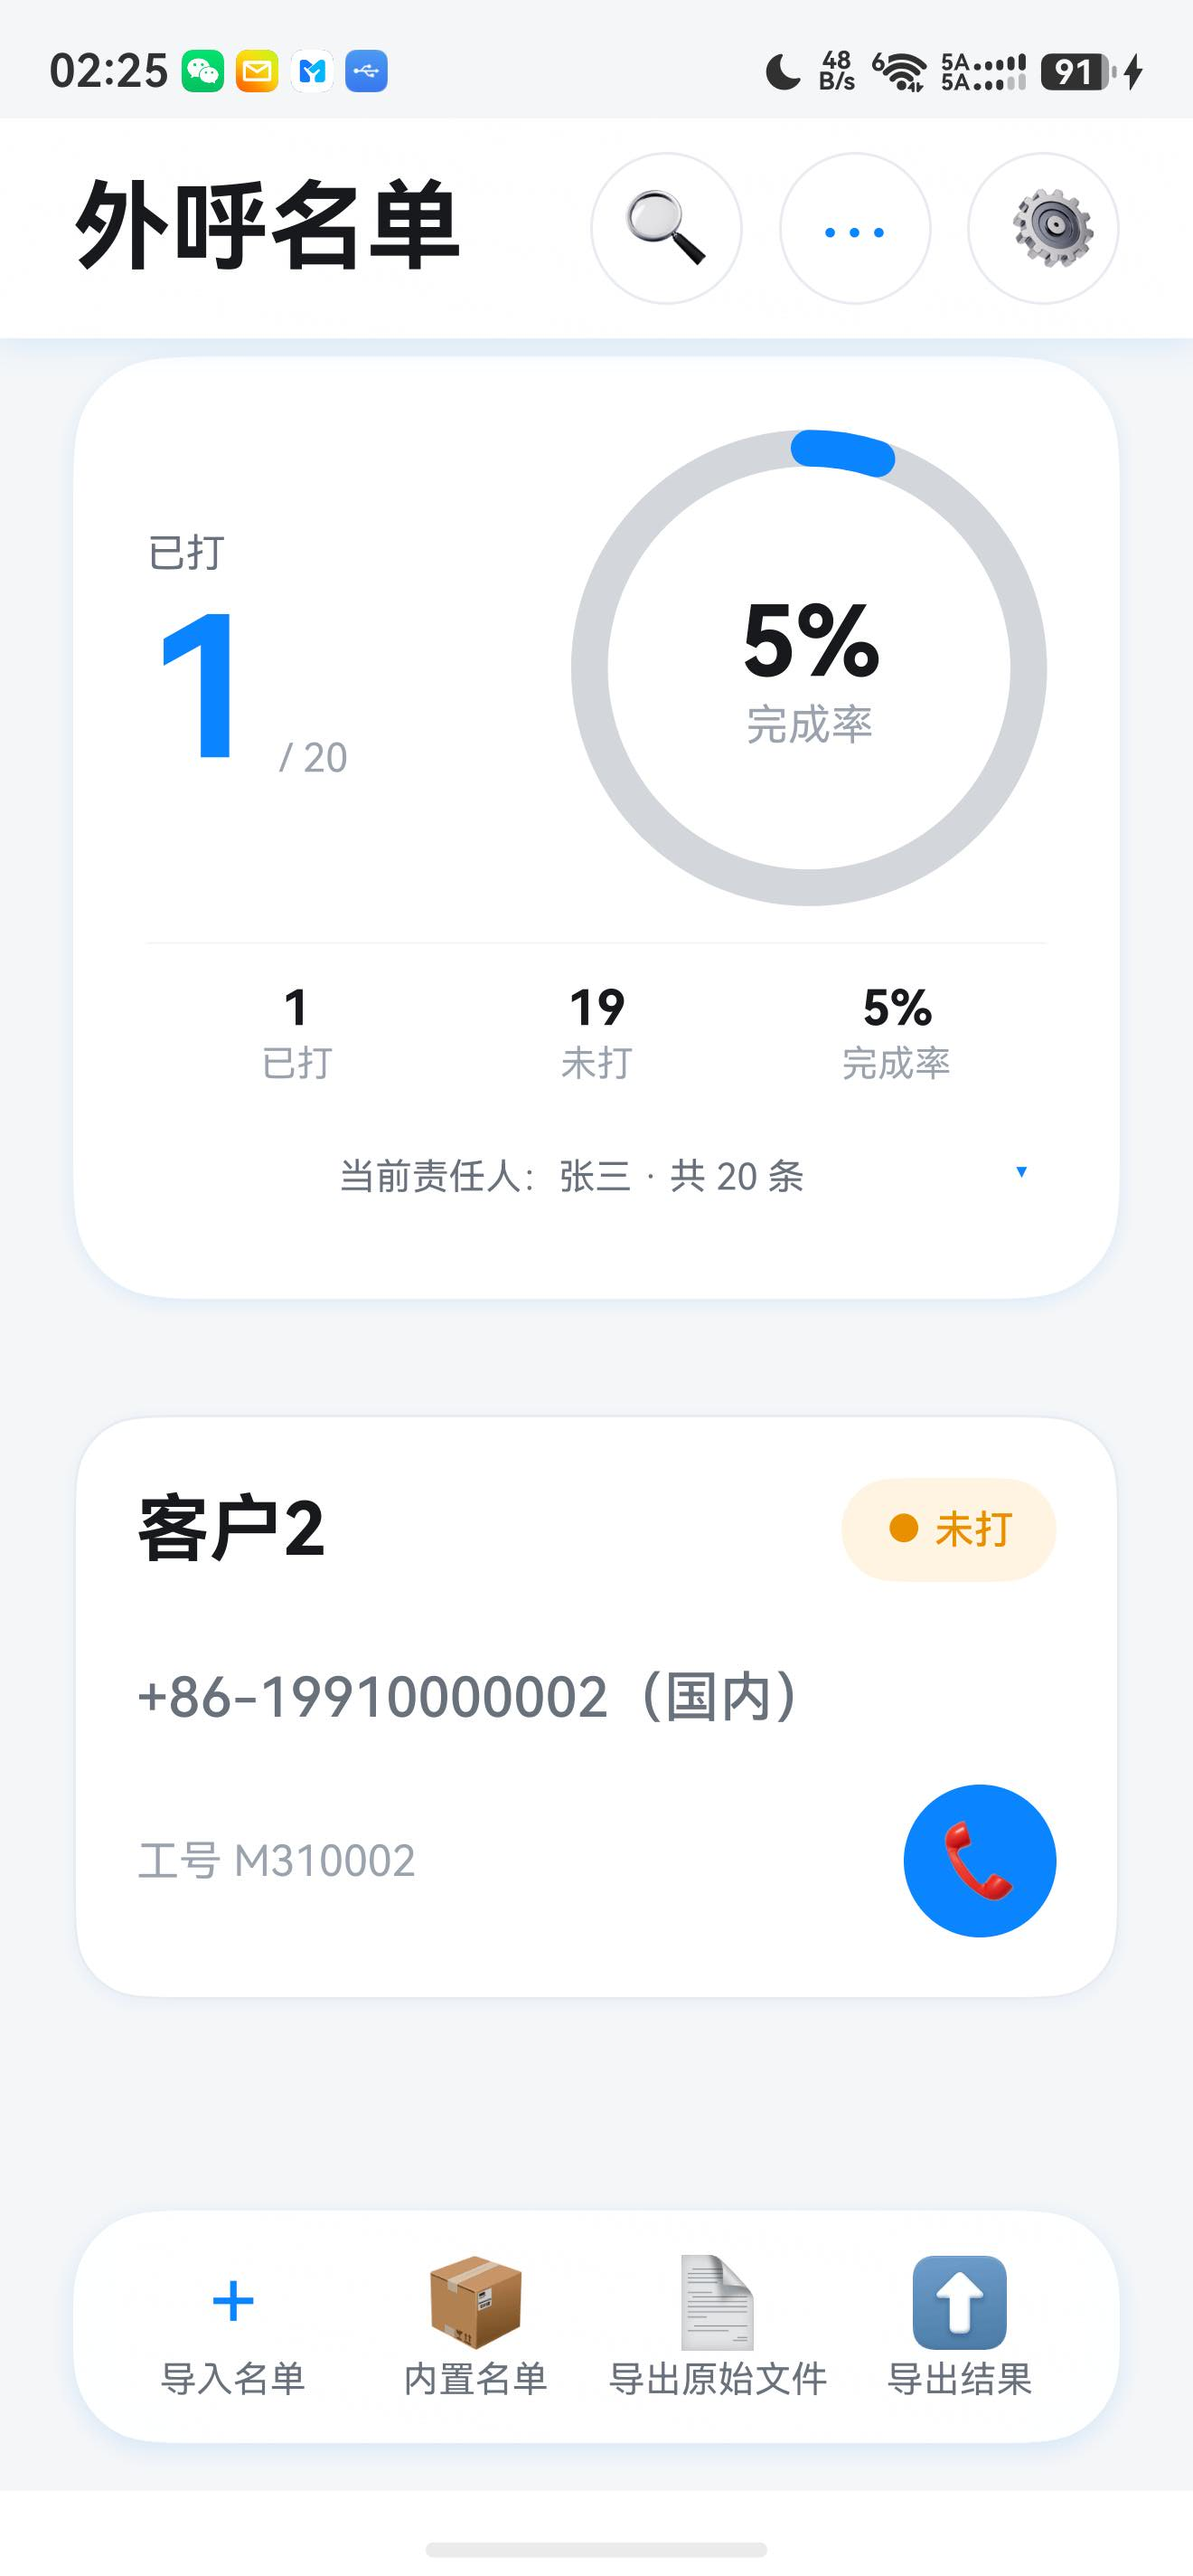
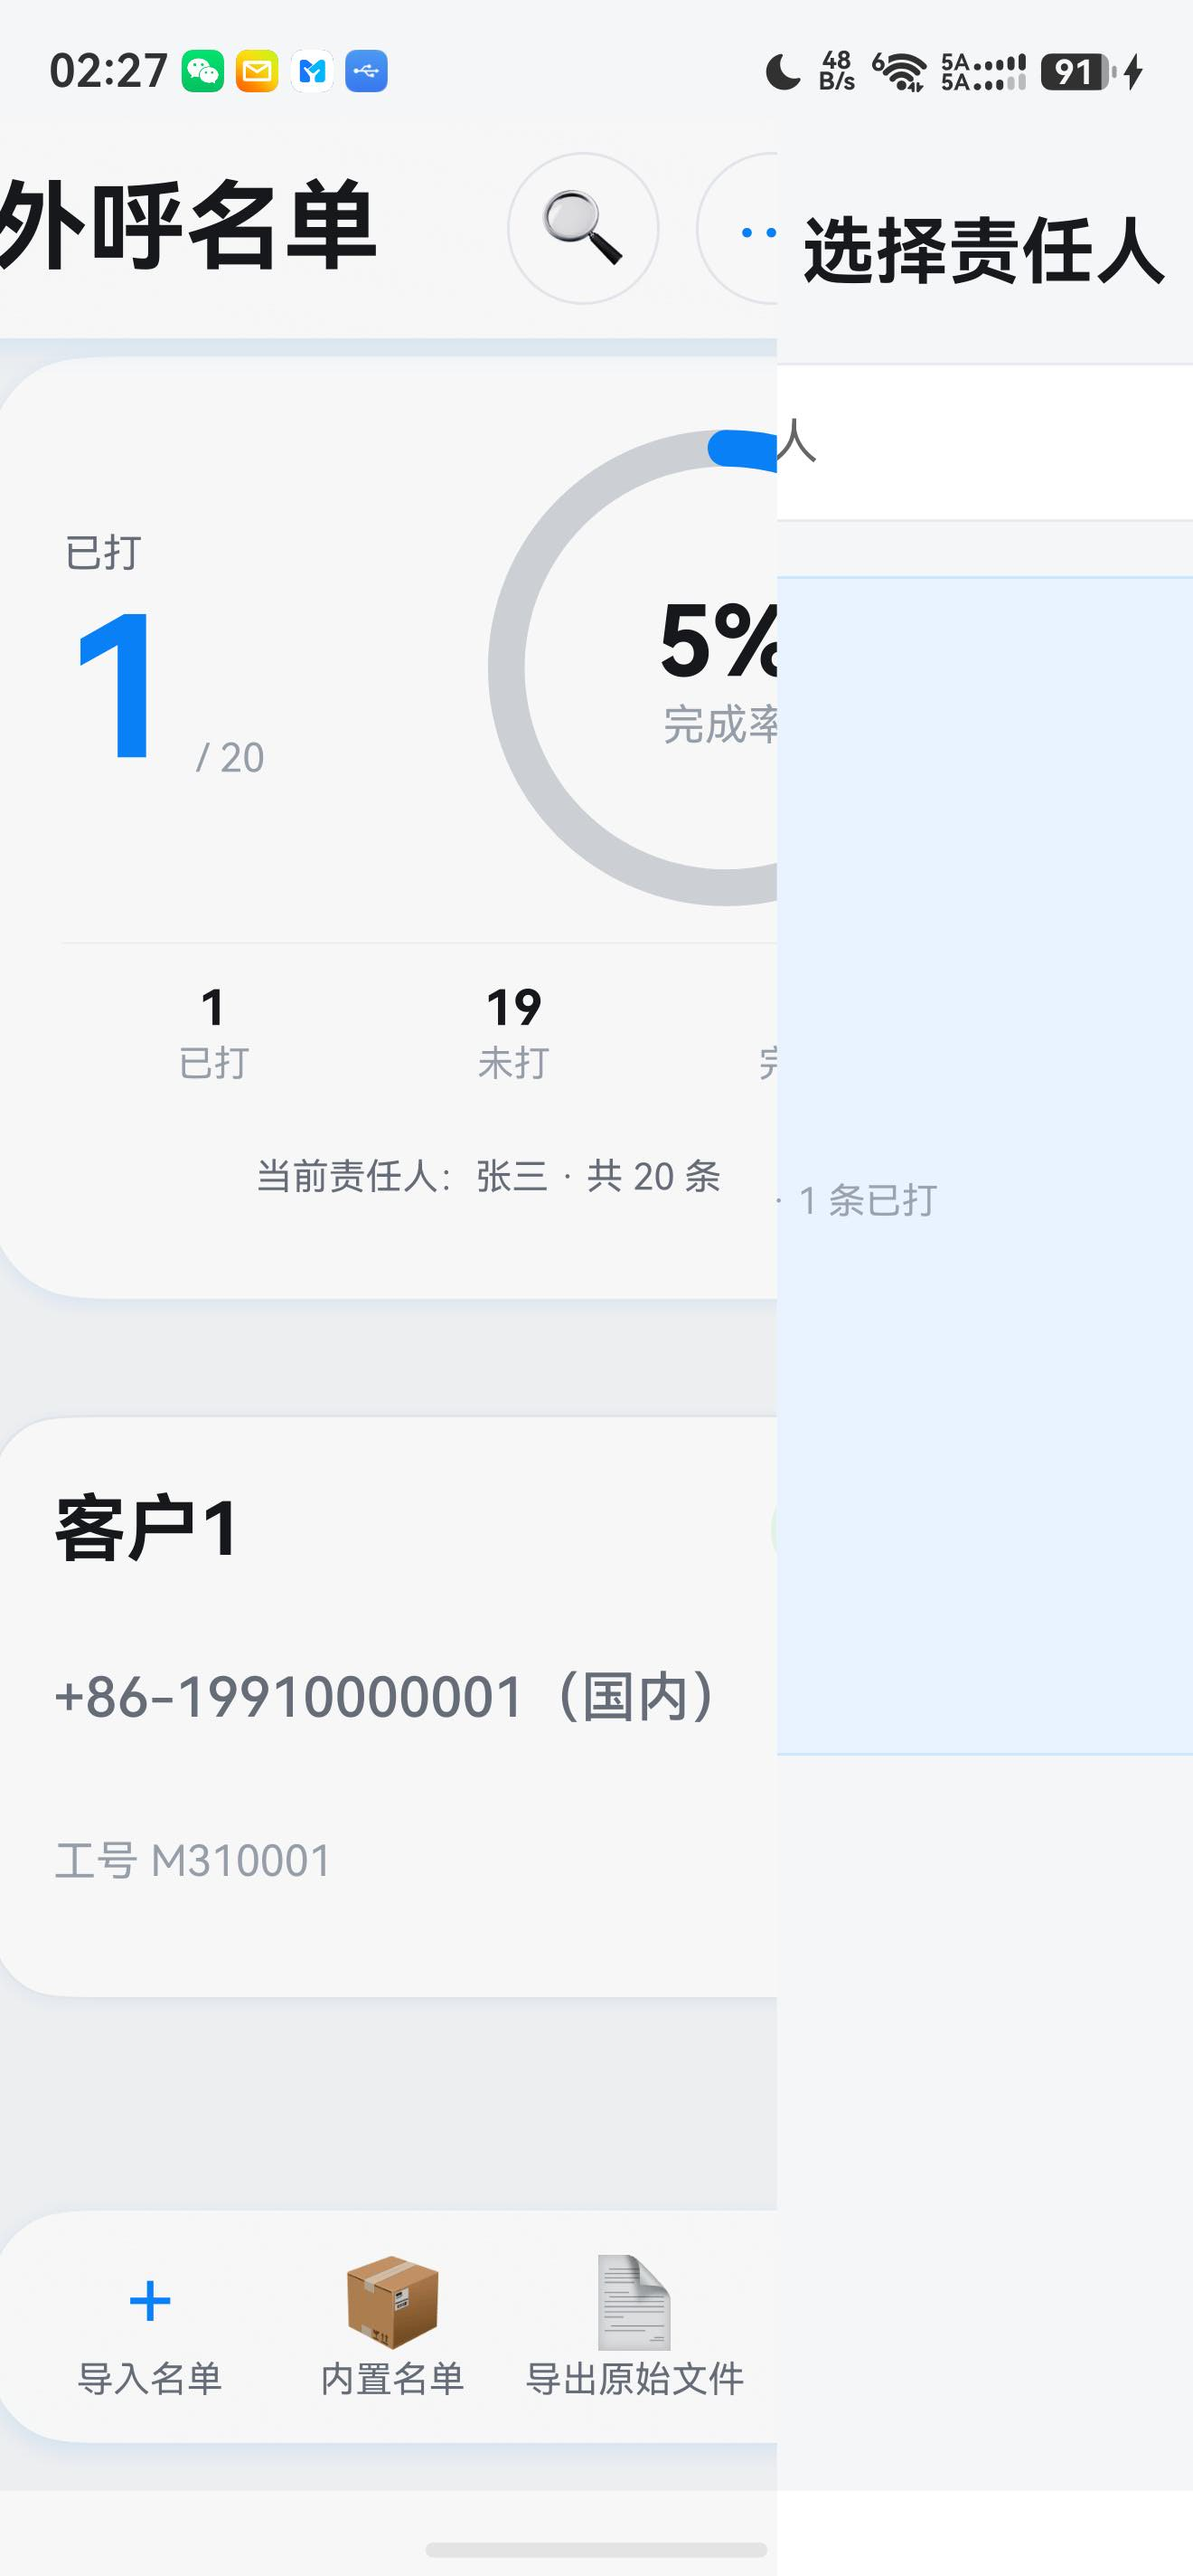
docs/15 v0.8 回填：布局定稿实现/四个真机实证坑位（expandSafeArea 嵌套不生效→状态栏同色融合；navigationBarColor 强制弹出导航条→不设置；bindMenu 自定义组件不触发→自绘浮层；@Builder 传参固化→无参直读）+ 像素采样证据 + v0.8 五张截图存档

diff --git a/docs/15-UI重构-实施与验收记录.md b/docs/15-UI重构-实施与验收记录.md
@@ -1,11 +1,54 @@
-# UI 大重构实施与验收记录（M4 / v0.7）
+# UI 大重构实施与验收记录（M4 / v0.8）
 
 | 项 | 内容 |
 |---|---|
-| 版本 | v0.7（FR-13，docs/01） |
-| 设计依据 | **docs/15-UI设计规格-ChatGPT整理版.md（主依据，用户引入的多模态 AI 设计稿）** + docs/14（动效/沉浸光感专项，其第 8 节并入本稿第四节语义材质）+ **第二轮真机视觉反馈 8 项（用户拍板，见第 6 节）** |
-| 任务 | docs/03 T-U1~U7 |
-| 状态 | ✅ 实施完成 + 两轮真机回归通过（含 1 处真机实测坑位修复）；待用户目视最终截图与深色模式确认 |
+| 版本 | v0.8（FR-13，docs/01） |
+| 设计依据 | **docs/16-UI布局-多轮确认版.md（布局定稿）** + docs/15（数值化令牌/组件/动效）+ docs/14（语义材质） |
+| 任务 | docs/03 T-U1~U7（v0.8 定稿版） |
+| 状态 | ✅ 实施完成 + 真机回归通过（顶栏毛玻璃/系统栏融合/滚动预渲染三点均已落地）；待用户目视截图确认 |
+
+---
+
+## 7. v0.8 定位稿实施记录（docs/16，重要坑位与实证）
+
+### 7.1 布局（全部按 docs/16 一/五节）
+
+| 项 | 实现 | 真机证据 |
+|---|---|---|
+| 顶栏 | 大标题 32fp + 右侧 搜索🔍/更多⋯/设置⚙ 三圆钮（50vp、bar_bg 半透明+divider 描边+primary 图标）；**毛玻璃**：bar_bg(0.82)+COMPONENT_ULTRA_THICK+悬浮阴影，覆盖滚动内容 | 控件树三钮就位；毛玻璃穿透效果待用户目视 |
+| 统计大卡 | 大数字 64fp + /分母 + 圆环 156vp + 三等栏；底部单行「当前责任人：张三 ▾ · 共20条」**点击进责任人选择**（去掉全部责任人行） | 点击 → 选择页 ✓ |
+| 搜索 | 顶栏🔍 → 统计卡下方**滑入圆角搜索行**（transition），输入即过滤（300ms 防抖），再点收起清空 | 展开/收起 ✓ |
+| 更多=筛选 | 自绘浮层菜单（✓ 全部20/未打19/已打1 选中高亮 + transition 弹出） | 弹出/选择 ✓ |
+| 名单 | 单列宽卡 190vp 定高（姓名 24fp+状态胶囊 四态色/号码 18fp/工号 14fp+50vp 圆形拨号钮）；卡片点击进详情、拨号钮独立 | 单列表 ✓ |
+| 底部 | 76vp 悬浮胶囊操作栏（毛玻璃超厚+白描边+raised 阴影+按压 0.94）四功能 | ✓ |
+| 详情/设置/选择 | 分区卡片（头部/状态三行开关/信息）；分组卡（仅现有项）；行带任务统计+蓝色指示条 | ✓ |
+
+### 7.2 沉浸光感（docs/16 6.1~6.3）——三个真机实证坑位与最终方案
+
+| 要求 | 最终方案 | 实证 |
+|---|---|---|
+| 6.1 顶栏毛玻璃 | bar_bg(0.82)+COMPONENT_ULTRA_THICK+阴影，Stack 顶层覆盖滚动内容（仅顶栏/底栏 blur，卡片不 blur——docs/15 6.2 原则保留） | 结构生效 |
+| 6.2 系统栏无白黑边 | **expandSafeArea 在 Navigation/Stack 嵌套下不生效**（像素证据：顶部仍露窗口默认白底）→ 最终：仅设置 statusBarColor=页面同色（浅 #F4F6F8/深 #101214）+ statusBarContentColor 随深浅色（onConfigurationUpdate 同步）；**navigationBarColor 会强制弹出底部导航条且颜色不生效（反而产生白边）** → 不设置；内容层保持安全区避让（绝不重叠） | 像素采样：顶部 y30/y110=#F5F6F8 ✓；底部无纯白带 ✓ |
+| 6.3 上滑预渲染 | Grid.cachedCount(10) + 定高卡 190vp + LazyForEach key=id(版本号仅真数据变化递增) + 展示串（号码/"手机×N"）视图层预计算 + scrollBar Auto + scrollBarColor rgba(10,132,255,0.3) + loadMore 尾部占位 | 结构就位（当前 20 条样本无法观测预渲染，2000 行数据真机验证时用户确认手感） |
+
+### 7.3 其他真机坑位
+
+- **bindMenu 在自定义组件（IconButton）上不触发**（两次 tap 控件树无菜单）→ 改为自绘浮层菜单（状态驱动+transition）；
+- 窗口启动背景 start_window_background 双套=bg_page 同色（启动/边缘过渡无跳色）。
+
+### 7.4 验证证据
+
+| 门禁 | 结果 |
+|---|---|
+| 纯逻辑 | **46/46** |
+| 构建 | clean **0 错误 0 警告**（SignHap 为已知 CLI 限制） |
+| 真机回归 | 顶栏三钮/统计卡责任人入口/搜索展开收起/更多菜单筛选（选未打→列表过滤、已打行消失）/单列宽卡/底部像素融合 全过；拨号+详情+设置+选择主链路沿用前轮验收 |
+
+## 5. 待用户确认项
+
+1. 目视 `docs/ui-ref/v0.8-0{1..5}`（主页/详情/设置/选择/筛选菜单），确认顶栏毛玻璃穿透效果与整体视觉；
+2. 深色模式：设备设置切换后查看（状态栏图标色已随深浅色同步）；
+3. 若导入 2000 行数据，上滑列表手感确认（预渲染已启用）。
 
 ---
 
